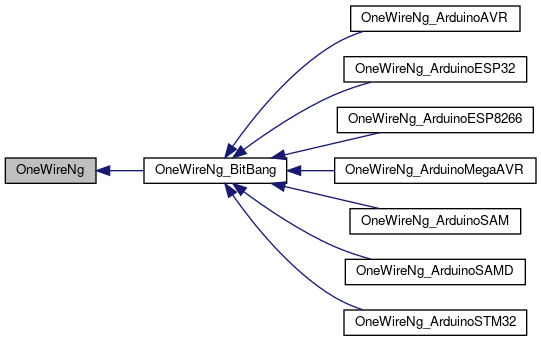
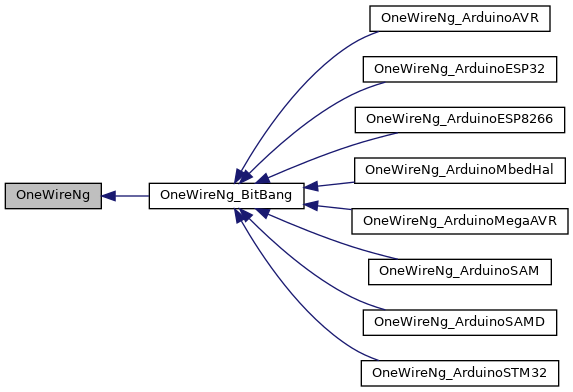
Arduino MbedOS HAL based API platforms support

diff --git a/src/platform/OneWireNg_ArduinoMbedHal.h b/src/platform/OneWireNg_ArduinoMbedHal.h
@@ -1,0 +1,134 @@
+/*
+ * Copyright (c) 2021 Piotr Stolarz
+ * OneWireNg: Arduino 1-wire service library
+ *
+ * Distributed under the 2-clause BSD License (the License)
+ * see accompanying file LICENSE for details.
+ *
+ * This software is distributed WITHOUT ANY WARRANTY; without even the
+ * implied warranty of MERCHANTABILITY or FITNESS FOR A PARTICULAR PURPOSE.
+ * See the License for more information.
+ */
+
+#ifndef __OWNG_ARDUINO_MBED_HAL__
+#define __OWNG_ARDUINO_MBED_HAL__
+
+#include <assert.h>
+#include "Arduino.h"
+#include "hal/gpio_api.h"
+#include "OneWireNg_BitBang.h"
+
+/**
+ * Arduino MbedOS HAL complied platform GPIO specific implementation.
+ */
+class OneWireNg_ArduinoMbedHal: public OneWireNg_BitBang
+{
+public:
+    /**
+     * OneWireNg 1-wire service for Arduino Mbed HAL complied platform.
+     *
+     * Bus powering is supported via switching its GPIO to the high state.
+     * In this case the GPIO servers as a voltage source for connected slaves
+     * working in parasite powering configuration.
+     *
+     * @param pin Arduino GPIO pin number used for bit-banging 1-wire bus.
+     * @param pullUp If @c true configure internal pull-up resistor for the bus.
+     */
+    OneWireNg_ArduinoMbedHal(unsigned pin, bool pullUp)
+    {
+        initDtaGpio(pin, pullUp);
+    }
+
+#ifdef CONFIG_PWR_CTRL_ENABLED
+    /**
+     * OneWireNg 1-wire service for Arduino Mbed HAL complied platform.
+     *
+     * Bus powering is supported via a switching transistor providing
+     * the power to the bus and controlled by a dedicated GPIO (@see
+     * OneWireNg_BitBang::setupPwrCtrlGpio()). In this configuration the
+     * service mimics the open-drain type of output. The approach may be
+     * feasible if the GPIO is unable to provide sufficient power for
+     * connected slaves working in parasite powering configuration.
+     *
+     * @param pin Arduino GPIO pin number used for bit-banging 1-wire bus.
+     * @param pwrCtrlPin Arduino GPIO pin number controlling the switching
+     *     transistor.
+     * @param pullUp If @c true configure internal pull-up resistor for the bus.
+     */
+    OneWireNg_ArduinoMbedHal(unsigned pin, unsigned pwrCtrlPin, bool pullUp)
+    {
+        initDtaGpio(pin, pullUp);
+        initPwrCtrlGpio(pwrCtrlPin);
+    }
+#endif
+
+protected:
+    int readDtaGpioIn()
+    {
+        return (gpio_read(&_dtaGpio) != 0);
+    }
+
+    void setDtaGpioAsInput()
+    {
+        gpio_dir(&_dtaGpio, PIN_INPUT);
+    }
+
+#ifdef CONFIG_PWR_CTRL_ENABLED
+    void writeGpioOut(int state, GpioType gpio)
+    {
+        if (gpio == GPIO_DTA) {
+            gpio_write(&_dtaGpio, state);
+        } else {
+            gpio_write(&_pwrCtrlGpio, state);
+        }
+    }
+
+    void setGpioAsOutput(int state, GpioType gpio)
+    {
+        if (gpio == GPIO_DTA) {
+            gpio_write(&_dtaGpio, state);
+            gpio_dir(&_dtaGpio, PIN_OUTPUT);
+        } else {
+            gpio_write(&_pwrCtrlGpio, state);
+            gpio_dir(&_pwrCtrlGpio, PIN_OUTPUT);
+        }
+    }
+#else
+    void writeGpioOut(int state)
+    {
+        gpio_write(&_dtaGpio, state);
+    }
+
+    void setGpioAsOutput(int state)
+    {
+        gpio_write(&_dtaGpio, state);
+        gpio_dir(&_dtaGpio, PIN_OUTPUT);
+    }
+#endif /* CONFIG_PWR_CTRL_ENABLED */
+
+    void initDtaGpio(unsigned pin, bool pullUp)
+    {
+        assert(pin >= PINS_COUNT);
+        PinName pinName = digitalPinToPinName(pin);
+
+        gpio_init_in_ex(& _dtaGpio, pinName, (pullUp ? INPUT_PULLUP : INPUT));
+        setupDtaGpio();
+    }
+
+#ifdef CONFIG_PWR_CTRL_ENABLED
+    void initPwrCtrlGpio(unsigned pin)
+    {
+        assert(pin >= PINS_COUNT);
+        PinName pinName = digitalPinToPinName(pin);
+
+        gpio_init_out(&_pwrCtrlGpio, pinName);
+        setupPwrCtrlGpio(true);
+    }
+
+    gpio_t _pwrCtrlGpio;
+#endif
+
+    gpio_t _dtaGpio;
+};
+
+#endif /* __OWNG_ARDUINO_MBED_HAL__ */

diff --git a/src/OneWireNg_CurrentPlatform.h b/src/OneWireNg_CurrentPlatform.h
@@ -38,6 +38,9 @@
 #elif defined(ARDUINO_ARCH_STM32)
 # include "platform/OneWireNg_ArduinoSTM32.h"
 # define OneWireNg_CurrentPlatform OneWireNg_ArduinoSTM32
+#elif defined(ARDUINO_ARCH_MBED)
+# include "platform/OneWireNg_ArduinoMbedHal.h"
+# define OneWireNg_CurrentPlatform OneWireNg_ArduinoMbedHal
 #else
 # define OneWireNg_CurrentPlatform
 # warning "Can't detect platform. Use proper class for the platform you are compiling for!"

diff --git a/README.md b/README.md
@@ -76,6 +76,9 @@ devices.
 * Arduino STM32.
     * Platform class: `OneWireNg_ArduinoSTM32`.
     * **Not tested**.
+* Arduino MbedOS based platforms (RP2040, Nano, Edge, Nicla, Portena).
+    * Platform class: `OneWireNg_ArduinoMbedHal`.
+    * **Not tested**.
 
 NOTE: Expect more platforms support in the future. **I'm inviting all developers**
 eager to help me with porting and testing the library for new platforms.
